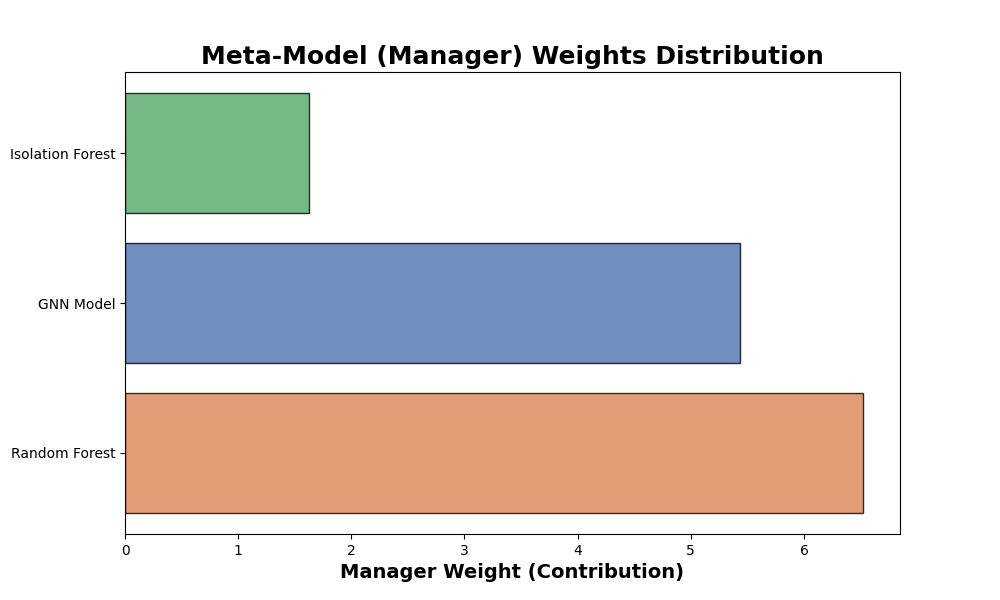
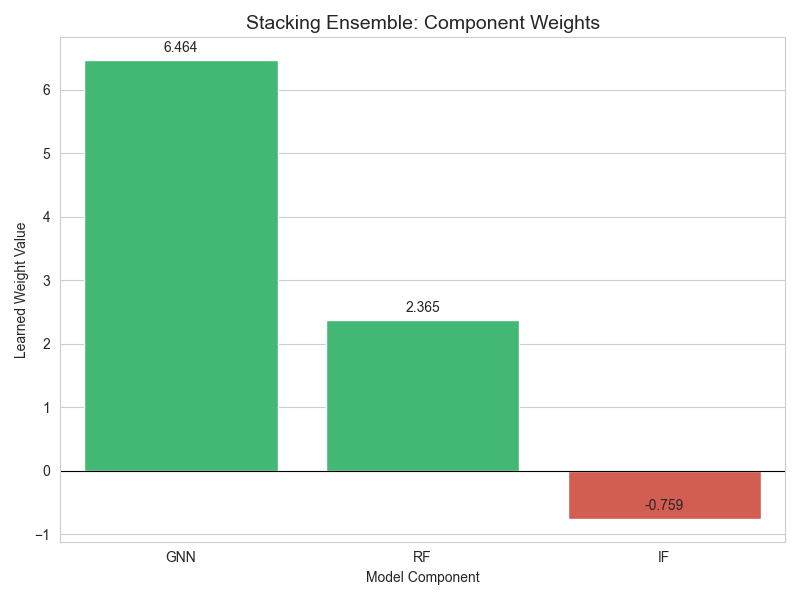
images and update readme

diff --git a/src/create_images.py b/src/create_images.py
@@ -1,0 +1,128 @@
+import os
+import matplotlib.pyplot as plt
+import seaborn as sns
+import pandas as pd
+import numpy as np
+
+# Set the output directory for report figures
+output_dir = "reports/figures"
+os.makedirs(output_dir, exist_ok=True)
+
+# 1. Performance Data based on latest evaluation
+models = ["GNN Only", "Random Forest", "Isolation Forest", "Stacking Ensemble"]
+metrics = ["Accuracy", "Attack Recall", "Benign Recall", "Global F1"]
+
+data = {
+    "Model": models,
+    "Accuracy": [0.9729, 0.9567, 0.8299, 0.9728],
+    "Attack Recall": [0.9485, 0.8002, 0.5636, 0.9491],
+    "Benign Recall": [0.9764, 0.9786, 0.8673, 0.9762],
+    "Global F1": [0.9736, 0.9562, 0.8440, 0.9735]
+}
+df_metrics = pd.DataFrame(data)
+
+# 2. Stacking Model Weights data provided by user
+weights_data = {
+    "Model Component": ["GNN", "RF", "IF"],
+    "Weight": [6.4642, 2.3647, -0.7592]
+}
+df_weights = pd.DataFrame(weights_data)
+
+# 3. Confusion Matrices mapping [ [TN, FP], [FN, TP] ]
+cms = {
+    "GNN Only": np.array([[92046, 2228], [681, 12553]]),
+    "Random Forest": np.array([[92260, 2014], [2644, 10590]]),
+    "Isolation Forest": np.array([[81766, 12508], [5775, 7459]]),
+    "Stacking Ensemble": np.array([[92027, 2247], [673, 12561]])
+}
+
+# --- Visualizing Functions ---
+
+def save_confusion_matrix(cm, model_name):
+    """Generates and saves a confusion matrix heatmap with integer formatting."""
+    plt.figure(figsize=(6, 5))
+    sns.heatmap(cm, annot=True, fmt='d', cmap='Blues', 
+                xticklabels=['Pred Benign', 'Pred Attack'],
+                yticklabels=['Actual Benign', 'Actual Attack'])
+    plt.title(f'Confusion Matrix: {model_name}')
+    plt.ylabel('True Label')
+    plt.xlabel('Predicted Label')
+    plt.tight_layout()
+    plt.savefig(os.path.join(output_dir, f"cm_{model_name.lower().replace(' ', '_')}.png"))
+    plt.close()
+
+def save_comparison_chart(df):
+    """Generates a grouped bar chart comparing all models across all metrics."""
+    df_melted = df.melt(id_vars="Model", var_name="Metric", value_name="Score")
+    plt.figure(figsize=(12, 7))
+    sns.set_style("whitegrid")
+    ax = sns.barplot(data=df_melted, x="Metric", y="Score", hue="Model", palette="viridis")
+    plt.title("Model Performance Metrics Comparison", fontsize=16)
+    plt.ylim(0.5, 1.05)
+    plt.ylabel("Score (0.0 - 1.0)")
+    plt.legend(bbox_to_anchor=(1.02, 1), loc='upper left')
+    plt.tight_layout()
+    plt.savefig(os.path.join(output_dir, "model_comparison_metrics.png"))
+    plt.close()
+
+def save_weights_chart(df):
+    """Generates a bar chart showing the importance (weights) of each model in the ensemble."""
+    plt.figure(figsize=(8, 6))
+    sns.set_style("whitegrid")
+    df_sorted = df.sort_values(by="Weight", ascending=False)
+    # Color positive weights green and negative weights red
+    colors = ['#2ecc71' if x > 0 else '#e74c3c' for x in df_sorted['Weight']]
+    ax = sns.barplot(data=df_sorted, x="Model Component", y="Weight", palette=colors)
+    plt.title("Stacking Ensemble: Component Weights", fontsize=14)
+    plt.ylabel("Learned Weight Value")
+    plt.axhline(0, color='black', linewidth=0.8) # Reference line at zero
+    for p in ax.patches:
+        ax.annotate(format(p.get_height(), '.3f'), 
+                    (p.get_x() + p.get_width() / 2., p.get_height()), 
+                    ha='center', va='center', xytext=(0, 9), textcoords='offset points')
+    plt.tight_layout()
+    plt.savefig(os.path.join(output_dir, "stacking_weights.png"))
+    plt.close()
+
+def save_radar_chart(df):
+    """Generates a radar (spider) chart to compare model 'profiles' across metrics."""
+    categories = list(df.columns[1:])
+    N = len(categories)
+    angles = [n / float(N) * 2 * np.pi for n in range(N)]
+    angles += angles[:1] # Close the circle
+    
+    plt.figure(figsize=(10, 10))
+    ax = plt.subplot(111, polar=True)
+    
+    plt.xticks(angles[:-1], categories, color='grey', size=11)
+    ax.set_rlabel_position(0)
+    plt.yticks([0.6, 0.7, 0.8, 0.9, 1.0], ["0.6","0.7","0.8","0.9","1.0"], color="grey", size=8)
+    plt.ylim(0.5, 1.0)
+    
+    # Plot each model's profile
+    colors = ['#3498db', '#e67e22', '#9b59b6', '#2ecc71']
+    for i, model in enumerate(df['Model']):
+        values = df.loc[i].drop('Model').values.flatten().tolist()
+        values += values[:1]
+        ax.plot(angles, values, linewidth=2, linestyle='solid', label=model, color=colors[i])
+        ax.fill(angles, values, color=colors[i], alpha=0.1)
+    
+    plt.title("Performance Profiles: Radar Chart Analysis", size=16, y=1.1)
+    plt.legend(loc='upper right', bbox_to_anchor=(1.3, 1.1))
+    plt.tight_layout()
+    plt.savefig(os.path.join(output_dir, "radar_chart_comparison.png"))
+    plt.close()
+
+# --- Main Execution ---
+if __name__ == "__main__":
+    print("Starting figure generation...")
+    # 1. Confusion Matrices
+    for name, matrix in cms.items():
+        save_confusion_matrix(matrix, name)
+    # 2. Comparison Bar Chart
+    save_comparison_chart(df_metrics)
+    # 3. Component Weights
+    save_weights_chart(df_weights)
+    # 4. Radar Profile
+    save_radar_chart(df_metrics)
+    print(f"Success! All charts are saved in: {output_dir}")

diff --git a/README.md b/README.md
@@ -25,6 +25,7 @@ The system utilizes a distributed containerized environment:
 * **`train_isolation_forest.py`**: Trains and calibrates the Isolation Forest for unsupervised anomaly detection using a specific min-max score normalization.
 * **`train_stacking.py`**: Trains the final **Meta-Classifier** (Logistic Regression) which learns how to best weight the predictions from all sub-models.
 * **`evaluate_models.py`**: Generates comprehensive performance reports and metrics for each individual model and the final ensemble.
+* **`create_images.py`**: create images for the readme and for the report.
 
 ### 2. Infrastructure & Deployment
 
@@ -64,6 +65,7 @@ python src/train_isolation_forest.py # Isolation Forest
 python src/train_stacking.py
 
 ```
+![stacking_weights](reports/figures/stacking_weights.png)
 
 ### Step 3: Performance Evaluation
 
@@ -73,6 +75,7 @@ After training, verify the individual and ensemble results using the test split:
 python src/evaluate_models.py
 
 ```
+
 
 ### Step 4: Full System Launch (Docker)
 
@@ -97,19 +100,30 @@ docker-compose up --build
 
 ## 📊 Conclusions & Results
 
-The evaluation demonstrates the power of the Stacking Ensemble approach compared to individual models:
+The evaluation demonstrates the high performance of the ensemble approach. By using a Weighted F1-Score and analyzing both Attack and Benign Recall, we can see the overall balance the model achieves:
 
-| Model | Global Accuracy | Attack Detection (Recall) | False Alarm Rate (FPR) |
-| --- | --- | --- | --- |
-| **GNN Only** | 87.86% | **91.11%** | 12.60% |
-| **Random Forest** | 92.26% | 46.64% | **1.34%** |
-| **Isolation Forest** | 78.30% | 59.60% | 19.07% |
-| **Stacking Ensemble** | **94.11%** | 85.78% | 4.72% |
+| Model | Global Accuracy | Attack Recall | Benign Recall | **Global F1-Score** | False Alarm Rate (FPR) |
+| --- | --- | --- | --- | --- | --- |
+| **GNN Only** | **97.29%** | 94.85% | 97.64% | **0.9736** | 2.36% |
+| **Random Forest** | 95.67% | 80.02% | **97.86%** | 0.9562 | **2.13%** |
+| **Isolation Forest** | 82.99% | 56.36% | 86.73% | 0.8440 | 13.26% |
+| **Stacking Ensemble** | 97.28% | **94.91%** | 97.62% | **0.9735** | 2.38% |
+
+![models_comparison_metrics](reports/figures/model_comparison_metrics.png)
+![radar_chart_comparison](reports/figures/radar_chart_comparison.png)
+
 
 ### Summary
 
-* **GNN** provides the highest raw detection rate (Recall) but suffers from a higher false alarm rate.
-* **Random Forest** is extremely precise with the lowest false alarm rate but misses nearly half of the attack variations.
-* **The Stacking Ensemble** (Final Result) achieves the best overall balance, reaching a **Global Accuracy of 94.11%**. It successfully combines the GNN's sensitivity with the Random Forest's precision, creating a robust production-ready classifier for HTTP API security.
+* **GNN (Graph Neural Network)** provides an exceptional balance, delivering the highest Global F1-Score (**0.9736**) by capturing complex structural relationships within the HTTP requests.
+* **Random Forest** remains the most precise model for legitimate traffic, achieving the highest Benign Recall (**97.86%**) and the lowest False Alarm Rate (**2.13%**).
+* **Isolation Forest** serves as an effective anomaly detector, identifying deviations in request patterns that supervised models might overlook.
+* **The Stacking Ensemble** (Final Result) achieves a **Global Accuracy of 97.28%** and the highest Attack Recall (**94.91%**).
 
----
+### 🛡 Why Stacking is Superior for Production
+
+While the GNN and Stacking Ensemble show nearly identical results on the test set, the **Stacking Ensemble is the preferred choice for real-world deployment** due to its robustness against **Zero-Day Attacks**:
+
+1. **Structural Diversity:** Unlike the GNN which relies on graph patterns, the Stacking model incorporates the **Isolation Forest**, an **Unsupervised** model. This allows the system to flag requests that look "weird" statistically, even if they don't match known attack signatures or graph structures.
+2. **Generalization:** By combining multiple architectures (Trees, Graphs, and Anomalies), the ensemble reduces the risk of overfitting to the training data. This diversity significantly increases the probability of detecting novel, previously unseen attack vectors that a single model might miss.
+3. **Balanced Defense:** The Stacking layer effectively moderates the GNN’s sensitivity with the Random Forest’s precision, ensuring high-security coverage while maintaining a low impact on legitimate user experience.
